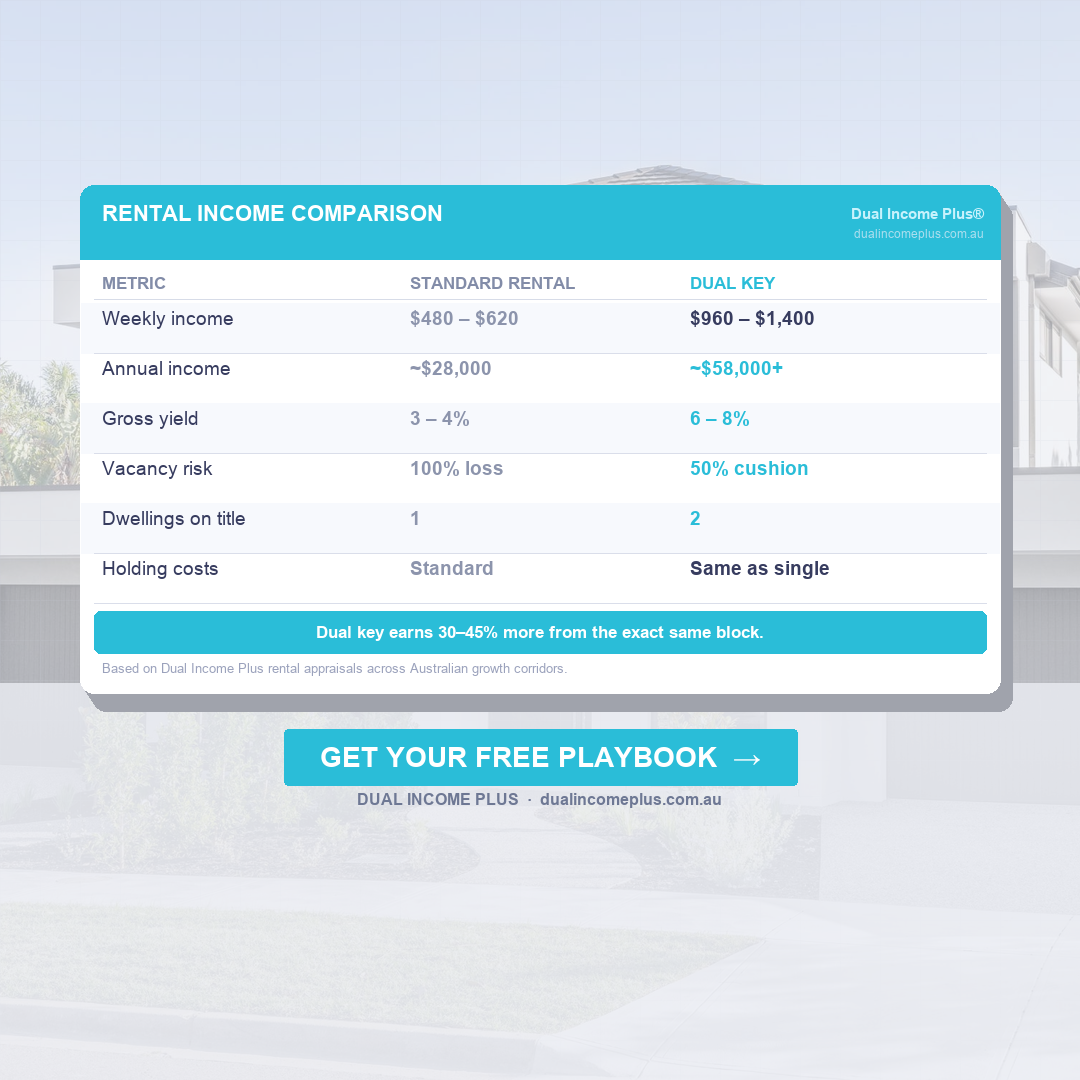
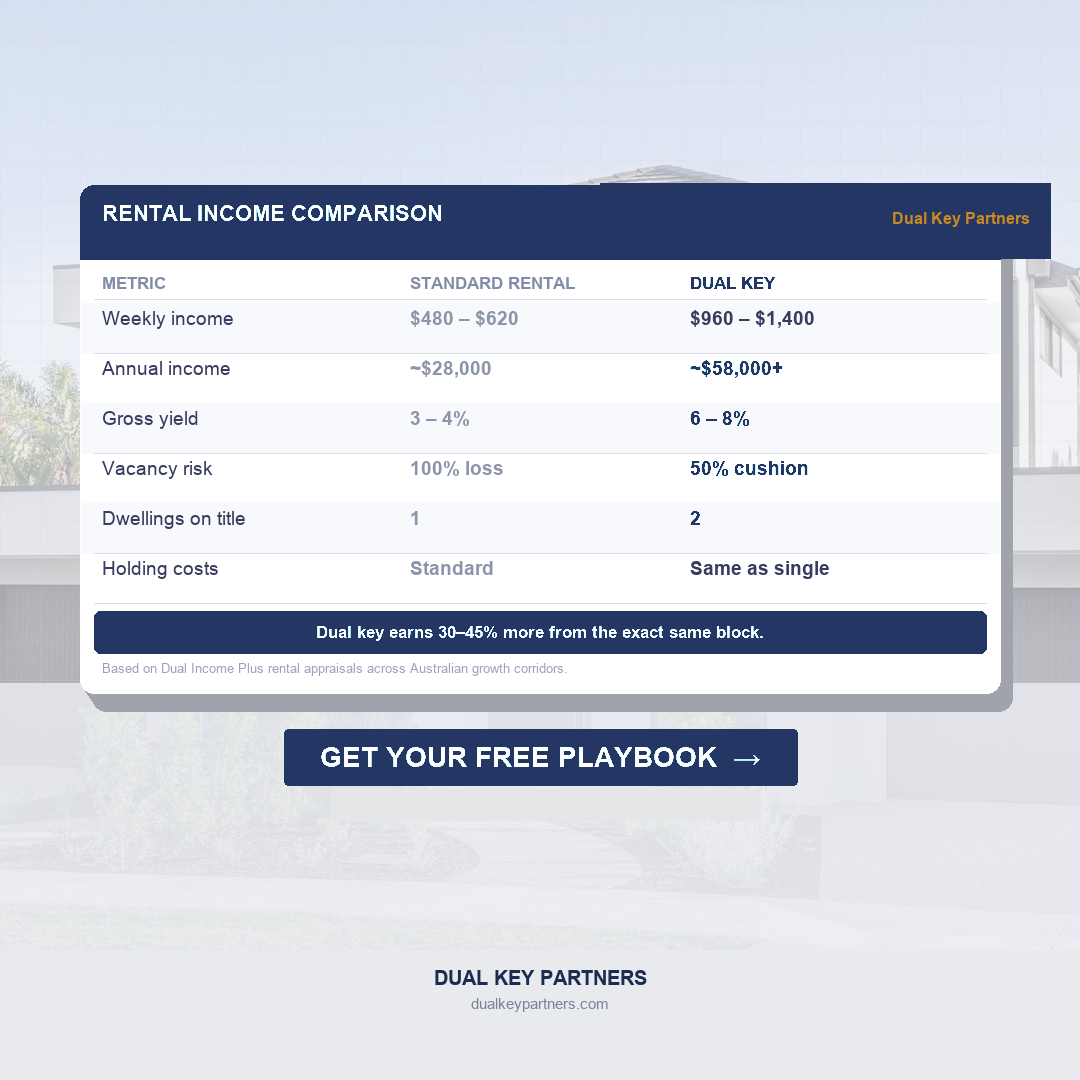
Rebrand ad creative from Dual Income Plus to Dual Key Partners
- Replace lime-green with brand gold (#C98A25) throughout all 3 ads
- Replace teal with navy (#1A2C50) in ad_3 table header
- Update bottom branding text to DUAL KEY PARTNERS / dualkeypartners.com
- Fix ad_3 table header label and remove old brand line above CTA
- Fix dualkeypartners.com.au → .com in logo generator

diff --git a/Assets/generate-logos.html b/Assets/generate-logos.html
@@ -95,30 +95,23 @@ function drawHouse(ctx, cx, cy, size) {
   ctx.fillStyle = bg;
   ctx.fillRect(0, 0, W, H);
 
-  // Subtle gold ring
-  ctx.strokeStyle = 'rgba(201,138,37,0.35)';
-  ctx.lineWidth = 8;
-  ctx.beginPath();
-  ctx.arc(W/2, H/2 - 40, 290, 0, Math.PI * 2);
-  ctx.stroke();
+  // House icon centred at (400, 270)
+  drawHouse(ctx, 400, 270, 280);
 
-  // House icon centred at (400, 310)
-  drawHouse(ctx, 400, 310, 300);
-
-  // Divider
+  // Divider — clearly below circle (circle bottom = 270+210 = 480)
   ctx.fillStyle = '#C98A25';
-  ctx.fillRect(W/2 - 100, 560, 200, 3);
+  ctx.fillRect(W/2 - 110, 520, 220, 3);
 
   // DUAL KEY
   ctx.fillStyle = '#FFFFFF';
   ctx.font = '900 72px Montserrat, Arial, sans-serif';
   ctx.textAlign = 'center';
-  ctx.fillText('DUAL KEY', W/2, 626);
+  ctx.fillText('DUAL KEY', W/2, 598);
 
   // PARTNERS
   ctx.fillStyle = '#C98A25';
   ctx.font = '700 40px Montserrat, Arial, sans-serif';
-  ctx.fillText('PARTNERS', W/2, 680);
+  ctx.fillText('PARTNERS', W/2, 656);
 
   document.getElementById('previewProfile').src = c.toDataURL();
 })();
@@ -175,7 +168,7 @@ function drawHouse(ctx, cx, cy, size) {
   // Website
   ctx.fillStyle = 'rgba(255,255,255,0.30)';
   ctx.font = '400 24px Arial, sans-serif';
-  ctx.fillText('dualkeypartners.com.au', 620, 494);
+  ctx.fillText('dualkeypartners.com', 620, 494);
 
   document.getElementById('previewCover').src = c.toDataURL();
 })();